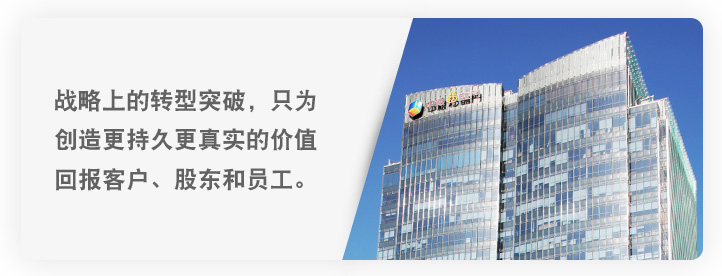
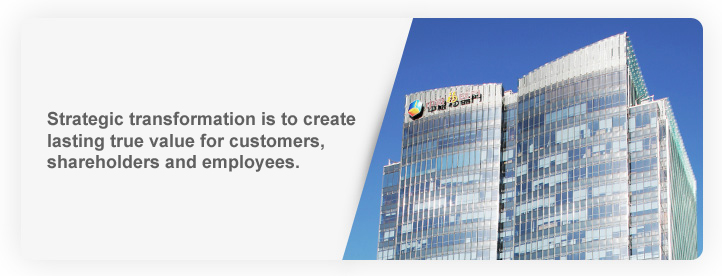
update

Changed region(s): [[0.0609, 0.3188, 0.4875, 0.6957]]

diff --git a/sponser.html b/sponser.html
@@ -132,15 +132,12 @@
         <h2><a href="javascript:void(0);" onclick="temper(0, '#sponsership')">Sponser</a></h2>
     
 <ul>
+    
     <li>
-        <a href="javascript:void(0);" onclick="temper(1,'#overview')">BIT</a>
-        
+        <a href="javascript:void(0);" onclick="temper(1)">Mathworks</a>
     </li>
     <li>
-        <a href="javascript:void(0);" onclick="temper(5)">Mathworks</a>
-    </li>
-    <li>
-        <a href="javascript:void(0);" onclick="temper(6)">中粮集团</a>
+        <a href="javascript:void(0);" onclick="temper(2)">Cofco</a>
     </li>
 </ul>
 
@@ -171,6 +168,7 @@
                     <li>Natick, Massachusetts 01760 USA
                     <li>+1.508.647.7000</li>
                 </ul>
+                <br><br><br><br>
 
             </div>
 
@@ -180,14 +178,18 @@
             <div class="section hero">
                 <div class="content">
                     <img src="./img/sponsers/zhongliang.jpg">
-                    <p>中粮集团有限公司（中粮集团）成立于1949年，经过多年的努力，从最初的粮油食品贸易公司发展成为中国领先的农产品、食品领域多元化产品和服务供应商，致力打造从田间到餐桌的全产业链粮油食品企业，建设全服务链的城市综合体，利用不断再生的自然资源为人类提供营养健康的食品、高品质的生活空间及生活服务，贡献于民众生活的富足和社会的繁荣稳定。</p>
-                    <p>中粮从粮油食品贸易、加工起步，产业链条不断延伸至种植养殖、物流储运、食品原料加工、生物质能源、品牌食品生产销售以及地产酒店、金融服务等领域，在各个环节上打造核心竞争能力，为利益相关方创造最大化价值，回报客户、股东、员工及全社会。</p>
-                    <p>面对世界经济一体化的发展态势，中粮不断加强与全球业务伙伴在农产品、粮油食品、番茄果蔬、饮料、酒业、糖业、饲料、肉食以及生物质能源、地产酒店、金融等领域的广泛合作。凭借良好的经营业绩，中粮连续20年名列美国《财富》杂志全球企业500强，居中国食品工业百强之首。</p>
-                    <p>通过日益完善的产业链条，中粮形成了诸多品牌产品与服务组合：福临门食用油、长城葡萄酒、金帝巧克力、屯河番茄制品、家佳康肉制品、香雪面粉、五谷道场方便面、悦活果汁、蒙牛乳制品、大悦城Shopping Mall、亚龙湾度假区、雪莲羊绒、中茶茶叶、金融保险等。这些品牌与服务铸就了中粮高品质、高品位的市场声誉。</p>
-                    <p>作为投资控股企业，中粮旗下拥有中国食品（00506.HK）、中粮控股（00606.HK）、蒙牛乳业（02319.HK）、中粮包装(00906.HK)四家香港上市公司，以及中粮屯河（600737.SH）、中粮地产（000031.SZ）和中粮生化（000930.SZ）三家内地上市公司。</p>
+                    <p>COFCO is the largest supplier of diversified products and services in the agricultural products and food industry in China. It is devoted to utilizing renewable natural resources to provide healthy and nutritious food, high quality lifestyle and services, as well as contributing to improve people’s living standards, social prosperity and stability.
+                    <p>
+COFCO plays a pivotal role as a bridge in the markets of edible oils and foodstuff between China and the world, and serves as the main importing and exporting channel for bulk agricultural products such as wheat, corn, rice and sugar. As an investment holding company specialized in trade and processing of oil and foodstuff as well as other businesses, COFCO continuously strives to upgrade its oil and foodstuff chains, which include those of oils and oilseeds, corn, wheat, rice, wine, tomatoes, dairy products, meat, barley, tea, chocolate and various other products. In light of China's economic growth, return on shareholders’ value and available business resources, COFCO is also involved in the development of real estate, hotels, non-grain bio-energy, packaging, finance and other industries.
+</p><p>
+COFCO has four companies listed in Hong Kong, namely, China Foods (HK00506), China Agri-Industries Holdings (HK00606), Mengniu Dairy (HK02319),and COFCO Packaging Holdings (HK00906) and three companies listed in mainland China, namely, COFCO Tunhe (600737), COFCO Real Estate (000031) and BBCA (000930). COFCO boasts a wide range of branded products and service portfolios, such as Fortune edible oil, Great Wall wine, Mengniu dairy, Lohas fruit and vegetable juice, Le Conte chocolate, Tunhe tomato products, Joycome meat products, Joy City shopping mall, Yalong Bay resorts, Gloria hotels, Snow-Lotus cashmere, China Tea products , COFCO-Aviva Life Insurance, COFCO Trust, etc.
+</p>
+<p>
+In recent years, COFCO has undertaken a thorough series of transformation from the output- and scale-oriented strategy to the customer- and efficiency-oriented strategy. The corporation not only aligns, integrates and enriches its specific businesses in accordance with its development strategy, but also emphasizes to position itself in the industrial value chain so as to build up its core competitiveness. Holding the belief that "Nature Shows Us the Way", COFCO strives to promote its cooperation with global partners in the course of transformation and development. By building a "Fully Integrated Agri-food Company", COFCO will provide real and long-standing value for its customers, shareholders, employees and other stakeholders.
+</p>
            
 
-                    <p>网站链接 :  <a href="http://www.cofco.com">http://www.cofco.com </a></p>
+                    <p>website :  <a href="http://www.cofco.com">http://www.cofco.com </a></p>
 
     
         </div>

diff --git a/humanpractice.html b/humanpractice.html
@@ -193,6 +193,18 @@
             <ul class="grid cs-style-4">
                 <li>
                     <figure>
+                        <div><img src="img/humanpractice/TJU/TJU_1.png" alt="TJU" width="360px" height="320px"></div>
+                        
+                    </figure>
+                </li>
+                <li>
+                    <figure>
+                        <div><img src="img/humanpractice/TJU/TJU_2.png" alt="TJU" width="360px" height="320px"></div>
+                        
+                    </figure>
+                </li>
+                <li>
+                    <figure>
                         <div><img src="img/humanpractice/Model/Model_1.png" alt="Model" width="360px" height="320px"></div>
                         
                     </figure>
@@ -225,6 +237,52 @@
                     
                     </figure>
                 </li>
+
+                </ul>
+                <ul class="grid cs-style-4">
+                <div><img src="img/humanpractice/Peking.png"> </div>
+                <li>
+                    <figure>
+                        <div><img src="img/humanpractice/Peking/Peking_1.png" alt="Peking" width="360px" height="320px"></div>
+                        
+                    </figure>
+                </li>
+
+                <li>
+                    <figure>
+                        <div><img src="img/humanpractice/Peking/Peking_2.png" alt="Peking" width="360px" height="320px"></div>
+                    
+                    </figure>
+                </li>
+
+                <li>
+                    <figure>
+                        <div><img src="img/humanpractice/Peking/Peking_3.png" alt="Peking" width="360px" height="320px"></div>
+                    
+                    </figure>
+                </li>
+
+                <li>
+                    <figure>
+                        <div><img src="img/humanpractice/Peking/Peking_4.png" alt="Peking" width="360px" height="320px"></div>
+                    
+                    </figure>
+                </li>
+
+               
+
+                </ul>
+
+                <ul class="grid cs-style-4">
+                <div><img src="img/humanpractice/Tsinghua.png"> </div>
+                <li>
+                    <figure>
+                        <div><img src="img/humanpractice/Tsinghua/Tsinghua.png" alt="Peking" width="360px" height="320px"></div>
+                        
+                    </figure>
+                </li>
+
+               
 
                 </ul>
         </div>
